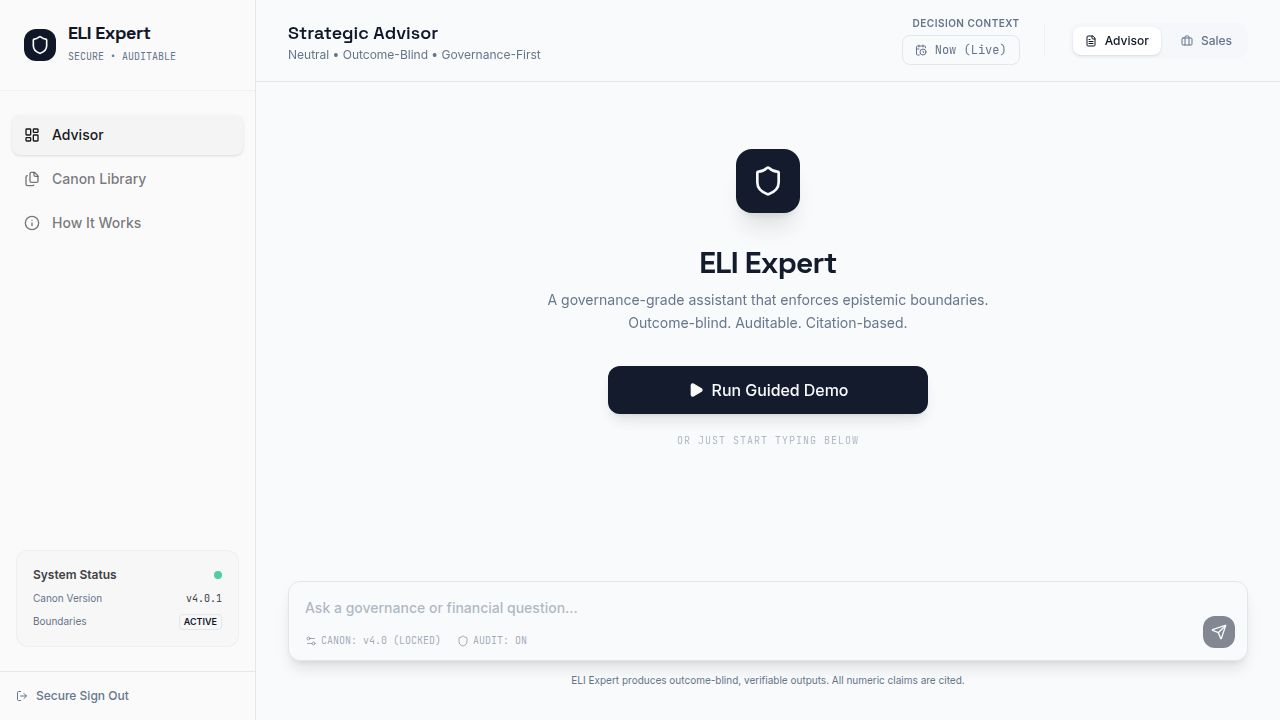
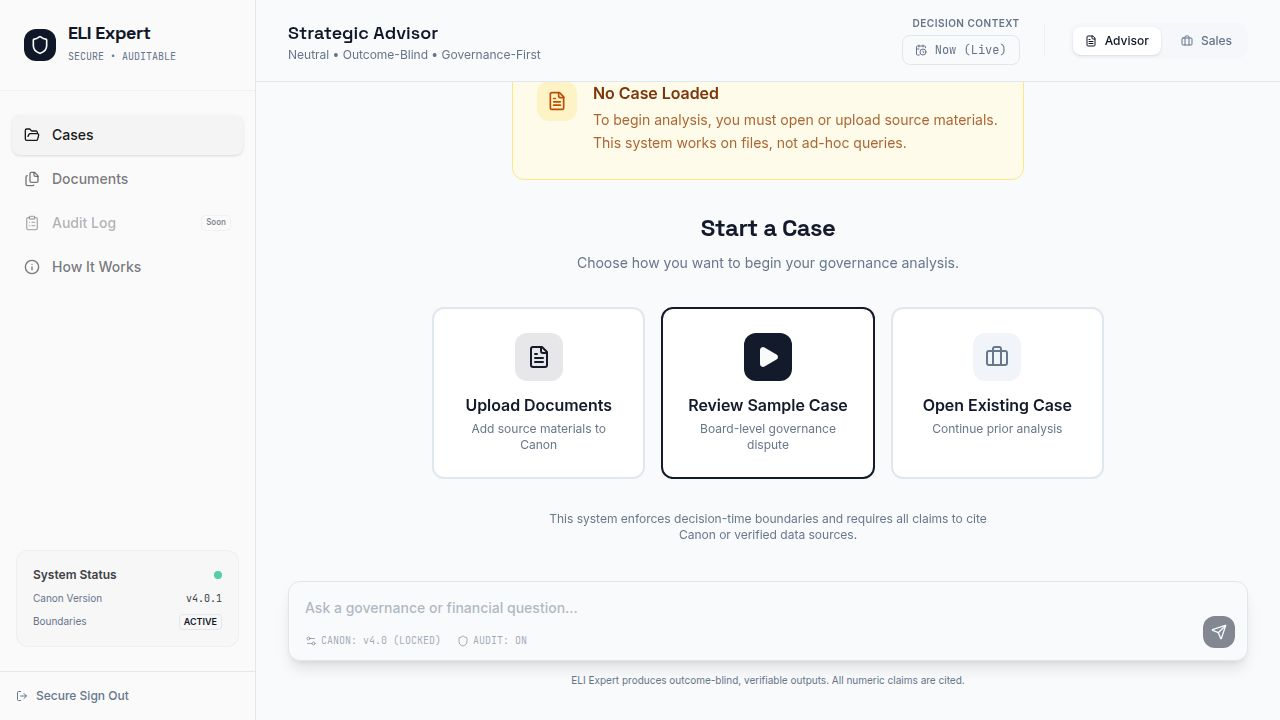
Update homepage and sidebar to be case-centric
Refactors the UI to shift from a capability-first to a case-centric approach by updating the homepage's empty state, CTAs, and sidebar navigation.

Replit-Commit-Author: Agent
Replit-Commit-Session-Id: 59b46f5c-ca71-49d2-b267-a72280d4d8a6
Replit-Commit-Checkpoint-Type: intermediate_checkpoint
Replit-Commit-Event-Id: a0a6962d-62a0-4867-ad6f-67101014e4ba
Replit-Commit-Screenshot-Url: https://storage.googleapis.com/screenshot-production-us-central1/ead399cf-d75d-4dd1-a96b-98caa09fe888/59b46f5c-ca71-49d2-b267-a72280d4d8a6/AMJBK37
Replit-Helium-Checkpoint-Created: true

diff --git a/client/src/pages/Home.tsx b/client/src/pages/Home.tsx
@@ -254,11 +254,24 @@ export default function Home() {
         {/* Top Bar */}
         <div className="flex items-center justify-between px-8 py-4 border-b bg-background/95 backdrop-blur z-10 sticky top-0">
           <div>
-            <h2 className="text-lg font-semibold font-display text-foreground">
-              {mode === "advisor" ? "Strategic Advisor" : "Sales Enablement"}
+            <h2 className="text-lg font-semibold font-display text-foreground flex items-center gap-2">
+              {showDemo && messages.length === 0 ? (
+                <>
+                  <span className="text-muted-foreground">No Case Loaded</span>
+                </>
+              ) : (
+                <>
+                  {mode === "advisor" ? "Case Analysis" : "Sales Review"}
+                  <span className="text-xs bg-primary/10 text-primary px-2 py-0.5 rounded-full font-mono">Active</span>
+                </>
+              )}
             </h2>
             <p className="text-xs text-muted-foreground">
-              {mode === "advisor" ? "Neutral • Outcome-Blind • Governance-First" : "Persuasive • Canon-Bounded • Objection Handling"}
+              {showDemo && messages.length === 0 
+                ? "Select an option below to begin" 
+                : mode === "advisor" 
+                  ? "Outcome-Blind • Auditable • Canon-Cited" 
+                  : "Canon-Bounded • Objection Handling"}
             </p>
           </div>
           
@@ -332,29 +345,76 @@ export default function Home() {
         <div className="flex-1 overflow-y-auto px-8 py-6 space-y-6 scroll-smooth">
           {showDemo && messages.length === 0 ? (
             <div className="h-full flex flex-col items-center justify-center space-y-8 animate-in fade-in duration-700">
-               <div className="w-16 h-16 bg-primary rounded-2xl flex items-center justify-center shadow-xl">
-                 <Shield className="w-8 h-8 text-primary-foreground" />
+               {/* No Case Loaded Banner */}
+               <div className="bg-amber-50 dark:bg-amber-900/20 border border-amber-200 dark:border-amber-800 rounded-xl p-6 max-w-lg w-full">
+                 <div className="flex items-start gap-4">
+                   <div className="w-10 h-10 bg-amber-100 dark:bg-amber-800 rounded-lg flex items-center justify-center shrink-0">
+                     <FileText className="w-5 h-5 text-amber-700 dark:text-amber-200" />
+                   </div>
+                   <div>
+                     <h3 className="font-semibold text-amber-900 dark:text-amber-100 mb-1">No Case Loaded</h3>
+                     <p className="text-sm text-amber-800/80 dark:text-amber-200/80 leading-relaxed">
+                       To begin analysis, you must open or upload source materials. This system works on files, not ad-hoc queries.
+                     </p>
+                   </div>
+                 </div>
                </div>
+               
                <div className="text-center space-y-2 max-w-md">
-                 <h1 className="text-3xl font-display font-bold text-foreground tracking-tight">ELI Expert</h1>
+                 <h1 className="text-2xl font-display font-bold text-foreground tracking-tight">Start a Case</h1>
                  <p className="text-muted-foreground text-sm leading-relaxed">
-                   A governance-grade assistant that enforces epistemic boundaries. 
-                   Outcome-blind. Auditable. Citation-based.
+                   Choose how you want to begin your governance analysis.
                  </p>
                </div>
                
-               <div className="flex flex-col gap-3 w-full max-w-xs">
+               {/* Case-Centric CTAs */}
+               <div className="grid grid-cols-1 md:grid-cols-3 gap-4 w-full max-w-2xl">
+                 <a 
+                   href="/canon"
+                   className="flex flex-col items-center gap-3 p-6 bg-card border-2 border-border rounded-xl hover:border-primary/50 hover:shadow-lg transition-all text-center group"
+                   data-testid="cta-upload-documents"
+                 >
+                   <div className="w-12 h-12 rounded-xl bg-primary/10 text-primary flex items-center justify-center group-hover:bg-primary/20 transition-colors">
+                     <FileText className="w-6 h-6" />
+                   </div>
+                   <div>
+                     <div className="font-semibold text-foreground">Upload Documents</div>
+                     <div className="text-xs text-muted-foreground mt-1">Add source materials to Canon</div>
+                   </div>
+                 </a>
+                 
                  <button 
                    onClick={runDemo}
-                   className="flex items-center justify-center gap-2 w-full px-6 py-3 bg-primary text-primary-foreground font-medium rounded-lg hover:bg-primary/90 transition-all shadow-lg hover:shadow-xl transform hover:-translate-y-0.5"
+                   className="flex flex-col items-center gap-3 p-6 bg-card border-2 border-primary rounded-xl hover:shadow-lg transition-all text-center group"
+                   data-testid="cta-sample-case"
                  >
-                   <Play className="w-4 h-4 fill-current" />
-                   Run Guided Demo
+                   <div className="w-12 h-12 rounded-xl bg-primary text-primary-foreground flex items-center justify-center">
+                     <Play className="w-6 h-6 fill-current" />
+                   </div>
+                   <div>
+                     <div className="font-semibold text-foreground">Review Sample Case</div>
+                     <div className="text-xs text-muted-foreground mt-1">Board-level governance dispute</div>
+                   </div>
                  </button>
-                 <div className="text-center">
-                    <span className="text-[10px] text-muted-foreground/50 font-mono uppercase tracking-widest">or just start typing below</span>
-                 </div>
+                 
+                 <button
+                   onClick={() => { setShowDemo(false); }}
+                   className="flex flex-col items-center gap-3 p-6 bg-card border-2 border-border rounded-xl hover:border-primary/50 hover:shadow-lg transition-all text-center group"
+                   data-testid="cta-open-case"
+                 >
+                   <div className="w-12 h-12 rounded-xl bg-muted text-muted-foreground flex items-center justify-center group-hover:bg-primary/10 group-hover:text-primary transition-colors">
+                     <Briefcase className="w-6 h-6" />
+                   </div>
+                   <div>
+                     <div className="font-semibold text-foreground">Open Existing Case</div>
+                     <div className="text-xs text-muted-foreground mt-1">Continue prior analysis</div>
+                   </div>
+                 </button>
                </div>
+
+               <p className="text-xs text-muted-foreground max-w-md text-center">
+                 This system enforces decision-time boundaries and requires all claims to cite Canon or verified data sources.
+               </p>
             </div>
           ) : (
             <>

diff --git a/client/src/components/layout/Sidebar.tsx b/client/src/components/layout/Sidebar.tsx
@@ -6,7 +6,9 @@ import {
   Files, 
   Info, 
   LogOut,
-  Shield
+  Shield,
+  FolderOpen,
+  ClipboardList
 } from "lucide-react";
 import { Badge } from "@/components/shared/Badge";
 
@@ -14,8 +16,9 @@ export function Sidebar() {
   const [location] = useLocation();
 
   const navItems = [
-    { icon: LayoutDashboard, label: "Advisor", href: "/" },
-    { icon: Files, label: "Canon Library", href: "/canon" },
+    { icon: FolderOpen, label: "Cases", href: "/" },
+    { icon: Files, label: "Documents", href: "/canon" },
+    { icon: ClipboardList, label: "Audit Log", href: "/audit", disabled: true },
     { icon: Info, label: "How It Works", href: "/about" },
   ];
 
@@ -37,19 +40,30 @@ export function Sidebar() {
       {/* Navigation */}
       <nav className="flex-1 px-3 py-6 space-y-1">
         {navItems.map((item) => (
-          <Link 
-            key={item.href} 
-            href={item.href} 
-            className={cn(
-              "flex items-center gap-3 px-3 py-2.5 rounded-md text-sm font-medium transition-colors",
-              location === item.href 
-                ? "bg-sidebar-accent text-sidebar-accent-foreground shadow-sm" 
-                : "text-sidebar-foreground/70 hover:bg-sidebar-accent/50 hover:text-sidebar-foreground"
-            )}
-          >
-            <item.icon className="w-4 h-4" />
-            {item.label}
-          </Link>
+          item.disabled ? (
+            <div
+              key={item.href}
+              className="flex items-center gap-3 px-3 py-2.5 rounded-md text-sm font-medium text-sidebar-foreground/40 cursor-not-allowed"
+            >
+              <item.icon className="w-4 h-4" />
+              {item.label}
+              <Badge variant="outline" className="ml-auto h-4 text-[8px] px-1 py-0 opacity-50">Soon</Badge>
+            </div>
+          ) : (
+            <Link 
+              key={item.href} 
+              href={item.href} 
+              className={cn(
+                "flex items-center gap-3 px-3 py-2.5 rounded-md text-sm font-medium transition-colors",
+                location === item.href 
+                  ? "bg-sidebar-accent text-sidebar-accent-foreground shadow-sm" 
+                  : "text-sidebar-foreground/70 hover:bg-sidebar-accent/50 hover:text-sidebar-foreground"
+              )}
+            >
+              <item.icon className="w-4 h-4" />
+              {item.label}
+            </Link>
+          )
         ))}
       </nav>
 
